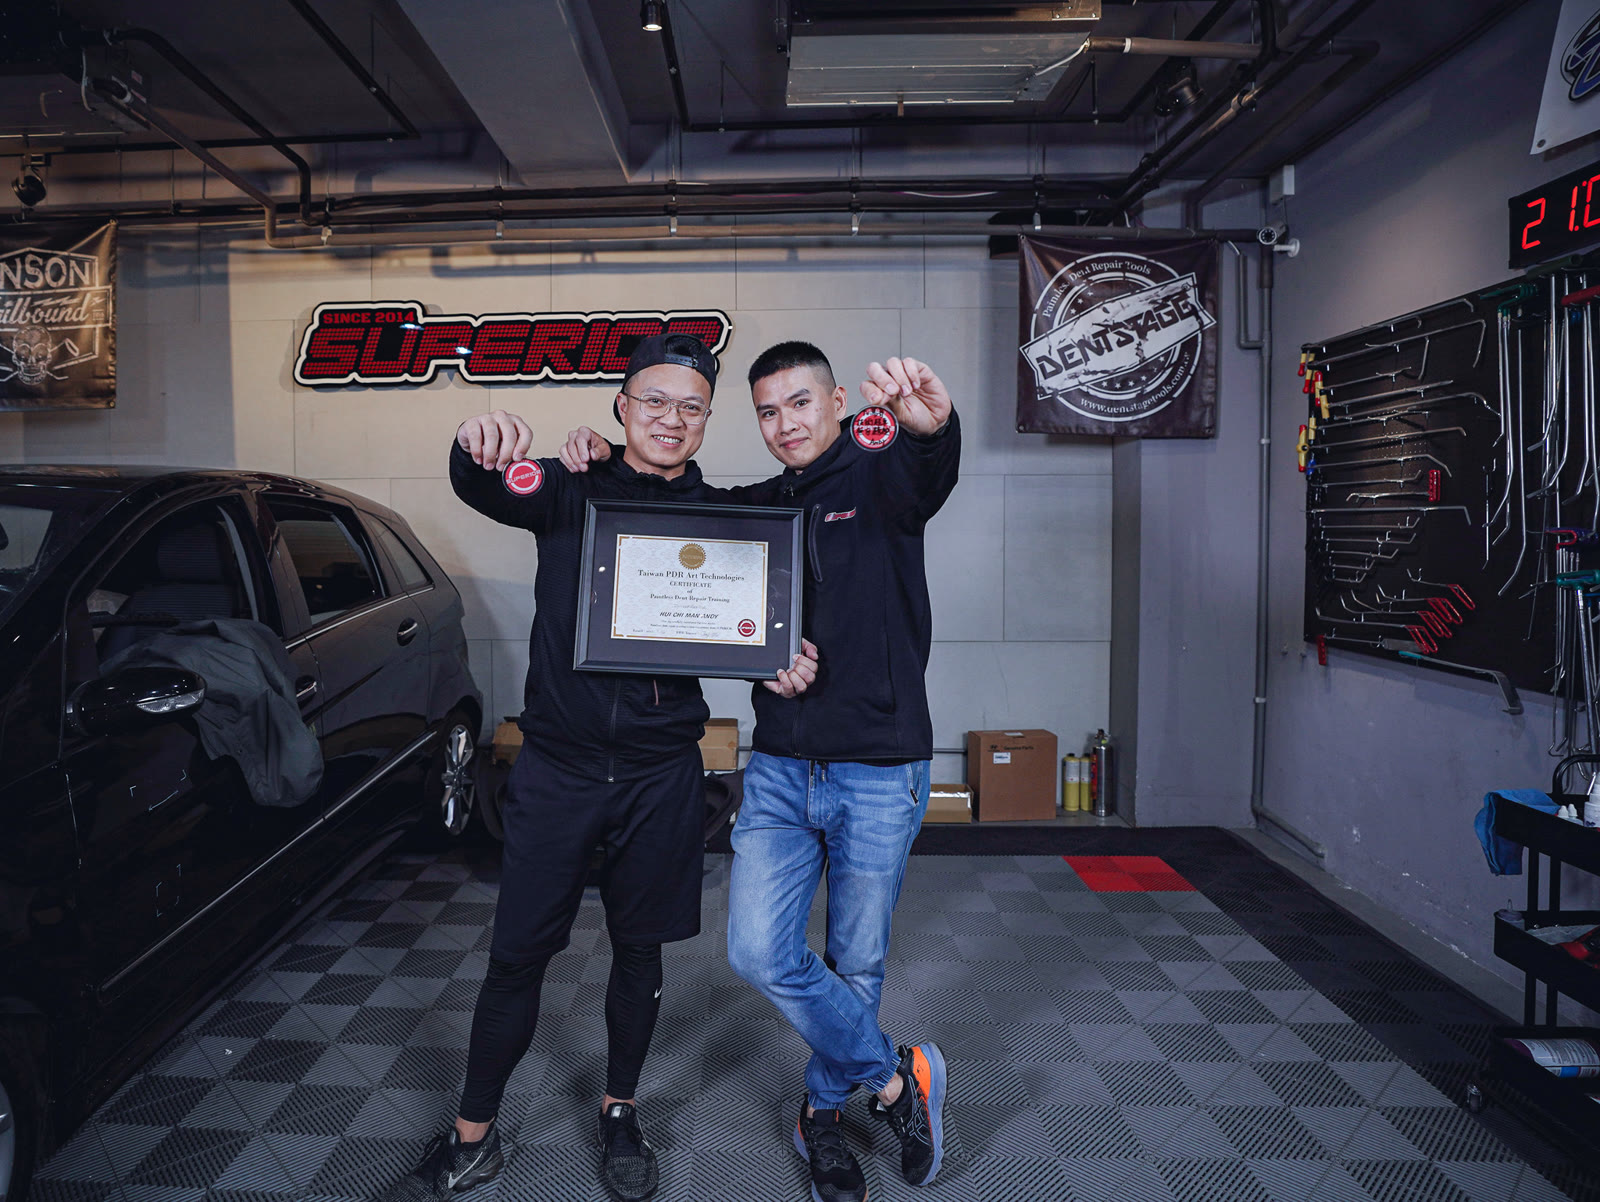
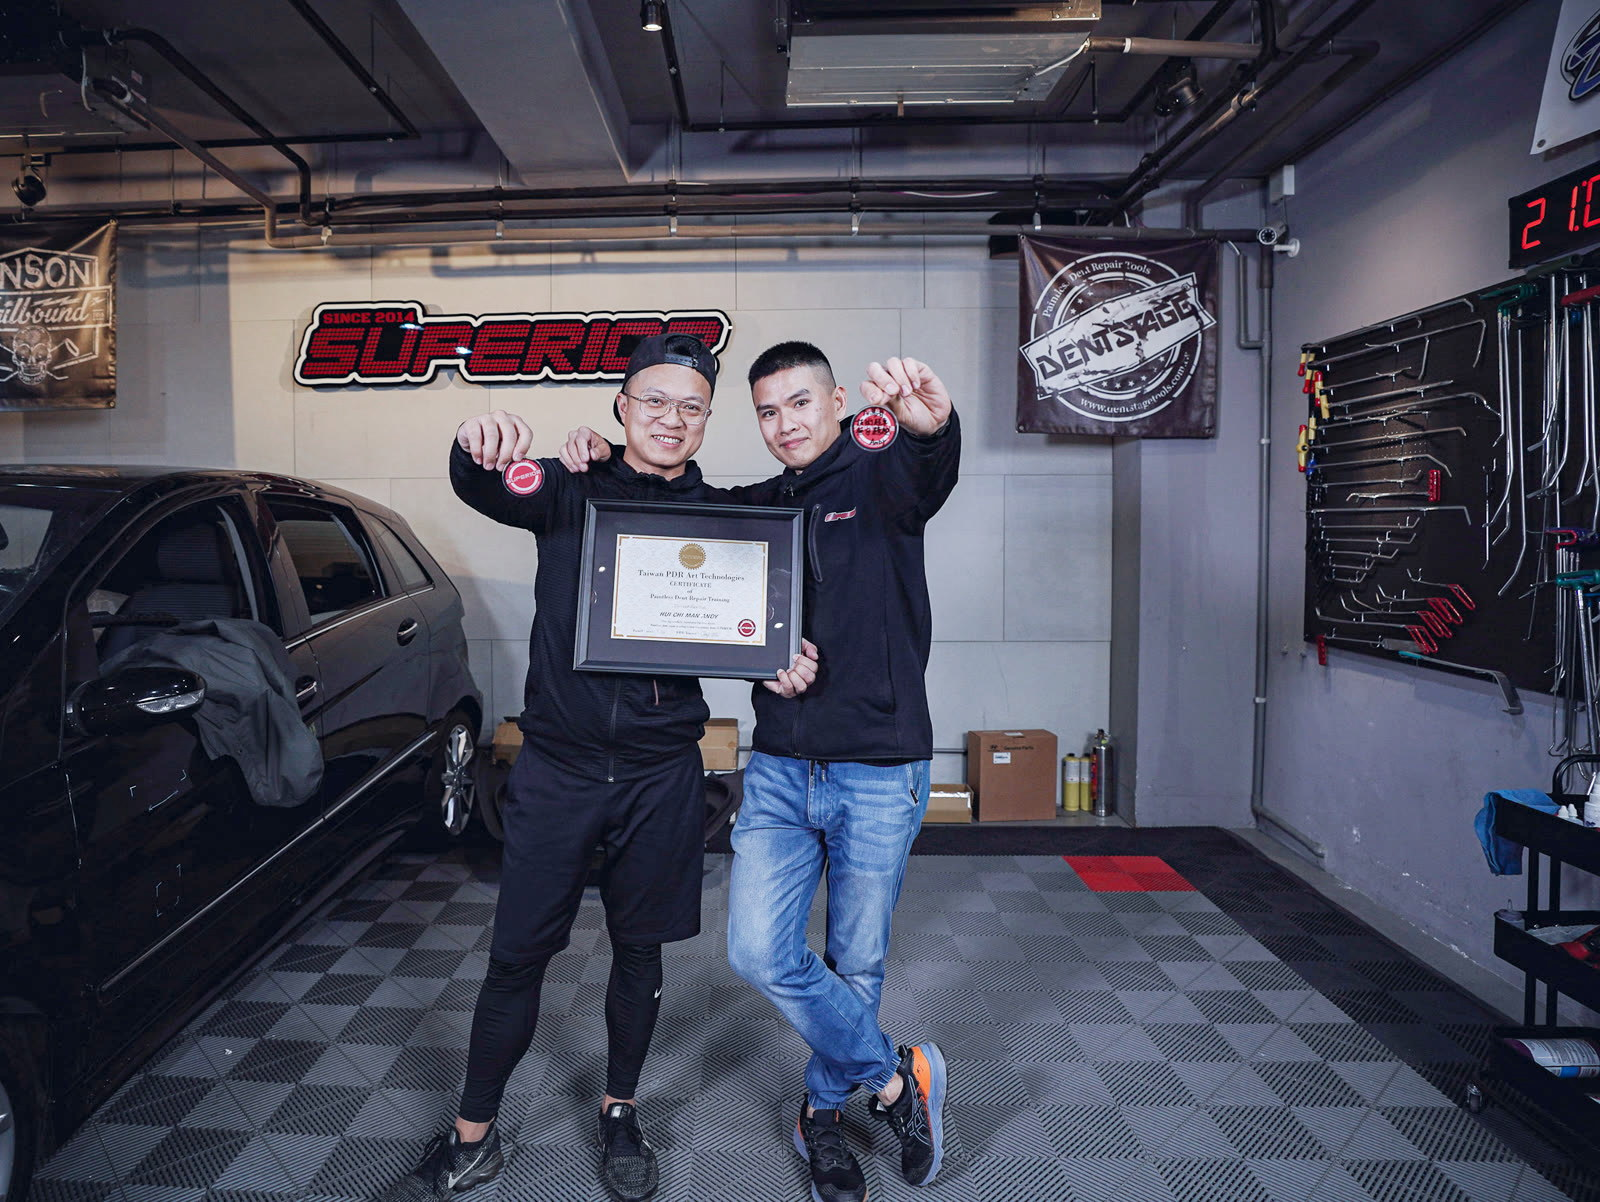
feat(news-3/學員足跡): 去重複＋補 8 張新畢業照＋統一色調；認證名單補汶萊/印尼共 48 位
相簿（18→23 張）
- 移除三組同場次重複照：alumni-9（＝4）、alumni-12（＝1）、alumni-15（＝6）
- 新增 alumni-19~26（來源：可用素材\學員畢業照，縮到 1600px）；施工特寫兩張未收
- alumni-2/4/6/7/17 統一色調：黑點正規化＋gamma 對齊全相簿中位亮度＋輕S曲線＋彩度收斂
  （最暗 61.5、最亮 107.1 → 收斂到 74.7–88.4）
- 依照片內證書實際字樣修正 alt：#4 與 #7 的姓名原本互換；Andy Ang 國別 印尼→汶萊

認證學員名單（46→48 位、12→14 國）
- Andy Ang｜CAC/2023/04/001｜2023/04/14｜汶萊｜進階 1 Week
- Adhi Surya Yodjana｜CAC/2019/07/001｜2019/07/26｜印尼｜完整 4 Week（最早一筆）
- 起始年份 2023→2019；「累積年份」改算起訖跨幅（年份有空檔，不重複年份數會低估）

diff --git a/news-3/index.html b/news-3/index.html
@@ -540,21 +540,26 @@
       <div class="alumni-item"><img loading="lazy" decoding="async" src="media/alumni-1.jpg" alt="學員結業 — Wade Lin, Chung Wen Chim"></div>
       <div class="alumni-item"><img loading="lazy" decoding="async" src="media/alumni-2.jpg" alt="學員結業 — Oscar Tan 香港"></div>
       <div class="alumni-item"><img loading="lazy" decoding="async" src="media/alumni-3.jpg" alt="學員結業 — 黃景楊 台灣"></div>
-      <div class="alumni-item"><img loading="lazy" decoding="async" src="media/alumni-4.jpg" alt="學員結業 — Wai Ming Heung, Ruhan 香港/模里西斯"></div>
+      <div class="alumni-item"><img loading="lazy" decoding="async" src="media/alumni-4.jpg" alt="學員結業 — Hui Chi Man Andy"></div>
       <div class="alumni-item"><img loading="lazy" decoding="async" src="media/alumni-5.jpg" alt="學員結業 — Leo Wang, Chen Elder, Lam Hung 香港/加拿大"></div>
-      <div class="alumni-item"><img loading="lazy" decoding="async" src="media/alumni-6.jpg" alt="學員結業 — Andy Ang 印尼"></div>
-      <div class="alumni-item"><img loading="lazy" decoding="async" src="media/alumni-7.jpg" alt="學員結業 — Tsai Tsung Hsun, Yeh Chien Hung Master PDR"></div>
+      <div class="alumni-item"><img loading="lazy" decoding="async" src="media/alumni-6.jpg" alt="學員結業 — Andy Ang 汶萊"></div>
+      <div class="alumni-item"><img loading="lazy" decoding="async" src="media/alumni-7.jpg" alt="學員結業 — Wai Ming Heung、Ruhan Ruhee 模里西斯"></div>
       <div class="alumni-item"><img loading="lazy" decoding="async" src="media/alumni-8.jpg" alt="學員結業 — Taiwan 台灣"></div>
-      <div class="alumni-item"><img loading="lazy" decoding="async" src="media/alumni-9.jpg" alt="學員結業 — Andy Ang 印尼"></div>
       <div class="alumni-item"><img loading="lazy" decoding="async" src="media/alumni-10.jpg" alt="學員結業 — Lee De Sheng, Kevin Koh 新加坡"></div>
       <div class="alumni-item"><img loading="lazy" decoding="async" src="media/alumni-11.jpg" alt="學員結業 — 新加坡"></div>
-      <div class="alumni-item"><img loading="lazy" decoding="async" src="media/alumni-12.jpg" alt="學員結業 — Hui Chi Man Andy 汶萊"></div>
       <div class="alumni-item"><img loading="lazy" decoding="async" src="media/alumni-13.jpg" alt="學員結業 — Nguyen Van Hoang 越南"></div>
       <div class="alumni-item"><img loading="lazy" decoding="async" src="media/alumni-14.jpg" alt="學員結業 — Leo Li 台灣"></div>
-      <div class="alumni-item"><img loading="lazy" decoding="async" src="media/alumni-15.jpg" alt="學員結業 — Chen Wei Heng 台灣"></div>
       <div class="alumni-item"><img loading="lazy" decoding="async" src="media/alumni-16.jpg" alt="學員結業 — Mansour Nabati 伊朗"></div>
       <div class="alumni-item"><img loading="lazy" decoding="async" src="media/alumni-17.jpg" alt="學員結業 — 越南學員合照"></div>
       <div class="alumni-item"><img loading="lazy" decoding="async" src="media/alumni-18.jpg" alt="學員結業 — Mansour Nabati 伊朗"></div>
+      <div class="alumni-item"><img loading="lazy" decoding="async" src="media/alumni-19.jpg" alt="學員結業合影 — 卓越 SUPERIOR PDR 結訓證書頒發"></div>
+      <div class="alumni-item"><img loading="lazy" decoding="async" src="media/alumni-20.jpg" alt="學員結業 — Pan Yi Chung 台灣"></div>
+      <div class="alumni-item"><img loading="lazy" decoding="async" src="media/alumni-21.jpg" alt="學員結業 — Chung Chun Pong 香港"></div>
+      <div class="alumni-item"><img loading="lazy" decoding="async" src="media/alumni-22.jpg" alt="學員結業 — Yang Min Hsiang 英國"></div>
+      <div class="alumni-item"><img loading="lazy" decoding="async" src="media/alumni-23.jpg" alt="學員結業 — Chiang Cheng I 等學員 台灣"></div>
+      <div class="alumni-item"><img loading="lazy" decoding="async" src="media/alumni-24.jpg" alt="學員結業 — Chen Chih Yang 等學員合影"></div>
+      <div class="alumni-item"><img loading="lazy" decoding="async" src="media/alumni-25.jpg" alt="學員結業 — Lee I-Chieh 等學員合影"></div>
+      <div class="alumni-item"><img loading="lazy" decoding="async" src="media/alumni-26.jpg" alt="學員結業合影 — 卓越 SUPERIOR PDR 教室"></div>
     </div>
     <div class="quote-block" style="margin-top:36px">
       <blockquote>「我們希望每一位學員都能成功，因為學員的成功，才是卓越存在的意義。」</blockquote>

diff --git a/certified-graduates/index.html b/certified-graduates/index.html
@@ -19,7 +19,7 @@
 <meta name="keywords" content="卓越認證學員,PDR證書查詢,PDR結訓證書,凹痕修復證照,PDR認證技師,CAC編號,PDR證書驗證,Taiwan PDR Art Technologies,superior pdr certificate">
 <link rel="canonical" href="https://tar-tw.com/certified-graduates/">
 <meta property="og:title" content="卓越認證學員查詢｜PDR 結訓證書驗證 — 卓越 SUPERIOR PDR">
-<meta property="og:description" content="輸入姓名或證書編號，線上驗證卓越 SUPERIOR PDR 結訓證書真偽。歷屆認證學員來自 12 個國家與地區。">
+<meta property="og:description" content="輸入姓名或證書編號，線上驗證卓越 SUPERIOR PDR 結訓證書真偽。歷屆認證學員來自 14 個國家與地區。">
 <meta property="og:type" content="website">
 <meta property="og:url" content="https://tar-tw.com/certified-graduates/">
 <meta property="og:image" content="https://tar-tw.com/media/og-default.jpg">
@@ -146,7 +146,7 @@ table.cg tbody tr.hit{background:rgba(212,164,90,.10)}
   <div class="grid-overlay"></div>
   <img class="seal" src="media/cert-seal.webp" alt="Taiwan PDR Art Technologies 認證徽章" width="560" height="559">
   <div class="inner">
-    <div class="eyebrow" data-en="CERTIFIED GRADUATES · SINCE 2023" data-zh="卓越認證學員 · 自 2023">卓越認證學員 · 自 2023</div>
+    <div class="eyebrow" data-en="CERTIFIED GRADUATES · SINCE 2019" data-zh="卓越認證學員 · 自 2019">卓越認證學員 · 自 2019</div>
     <h1 data-en="CERTIFIED <em>GRADUATES</em>" data-zh="卓越<em>認證學員</em>">卓越<em>認證學員</em></h1>
     <p class="lead" data-en="Every technician who completes a Superior PDR training course receives a Taiwan PDR Art Technologies certificate carrying a unique registered ID. Search the list below by name or certificate number to verify one." data-zh="每一位完成卓越 SUPERIOR PDR 訓練課程的技師，都會取得 Taiwan PDR Art Technologies 結訓證書，並登錄唯一編號。輸入姓名或證書編號，即可在下方名單查證真偽。">每一位完成卓越 SUPERIOR PDR 訓練課程的技師，都會取得 Taiwan PDR Art Technologies 結訓證書，並登錄唯一編號。輸入姓名或證書編號，即可在下方名單查證真偽。</p>
     <div class="cg-stats">
@@ -285,6 +285,8 @@ table.cg tbody tr.hit{background:rgba(212,164,90,.10)}
     SG:['新加坡','Singapore','sg'],
     JP:['日本','Japan','jp'],
     VN:['越南','Vietnam','vn'],
+    ID:['印尼','Indonesia','id'],
+    BN:['汶萊','Brunei','bn'],
     IR:['伊朗','Iran','ir'],
     MY:['馬來西亞','Malaysia','my'],
     MU:['模里西斯','Mauritius','mu'],
@@ -294,8 +296,10 @@ table.cg tbody tr.hit{background:rgba(212,164,90,.10)}
   };
 
   var D=[
+    ['CAC/2019/07/001','Adhi Surya Yodjana','full','2019/07/26','ID'],
     ['CAC/2023/03/001','Lee De Sheng','two','2023/03/22','SG'],
     ['CAC/2023/03/002','Kevin Koh Wei Quan','two','2023/03/22','SG'],
+    ['CAC/2023/04/001','Andy Ang','adv','2023/04/14','BN'],
     ['CAC/2023/05/001','Hoang Nguyen','full','2023/05/01','VN'],
     ['CAC/2023/05/002','Tyler Mckinnon','full','2023/05/01','VN'],
     ['CAC/2023/05/002','Lim Ghee Seng','adv','2023/05/12','MY'],
@@ -349,11 +353,11 @@ table.cg tbody tr.hit{background:rgba(212,164,90,.10)}
   var sortKey='date',sortDir=-1;
 
   /* 統計 */
-  var years={},ctry={};
-  D.forEach(function(r){years[r.date.slice(0,4)]=1;ctry[r.country]=1;});
+  var years=[],ctry={};
+  D.forEach(function(r){years.push(+r.date.slice(0,4));ctry[r.country]=1;});
   $('#stTotal').textContent=D.length;
   $('#stCountry').textContent=Object.keys(ctry).length;
-  $('#stYear').textContent=Object.keys(years).length;
+  $('#stYear').textContent=Math.max.apply(null,years)-Math.min.apply(null,years)+1;
 
   /* 國家下拉：依人數排序 */
   var byC={};
